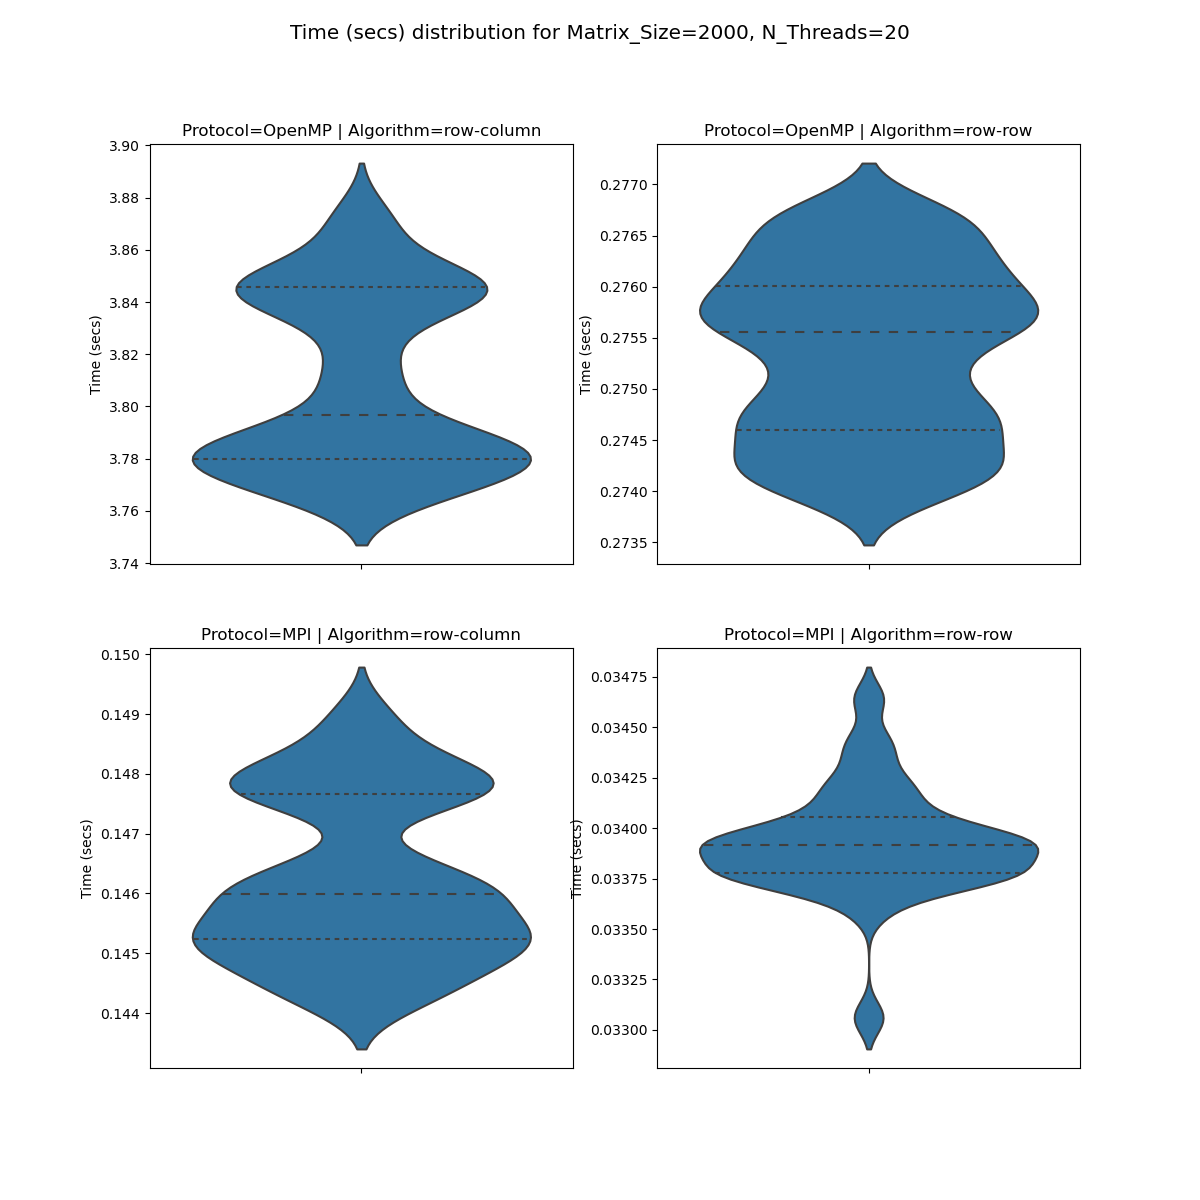
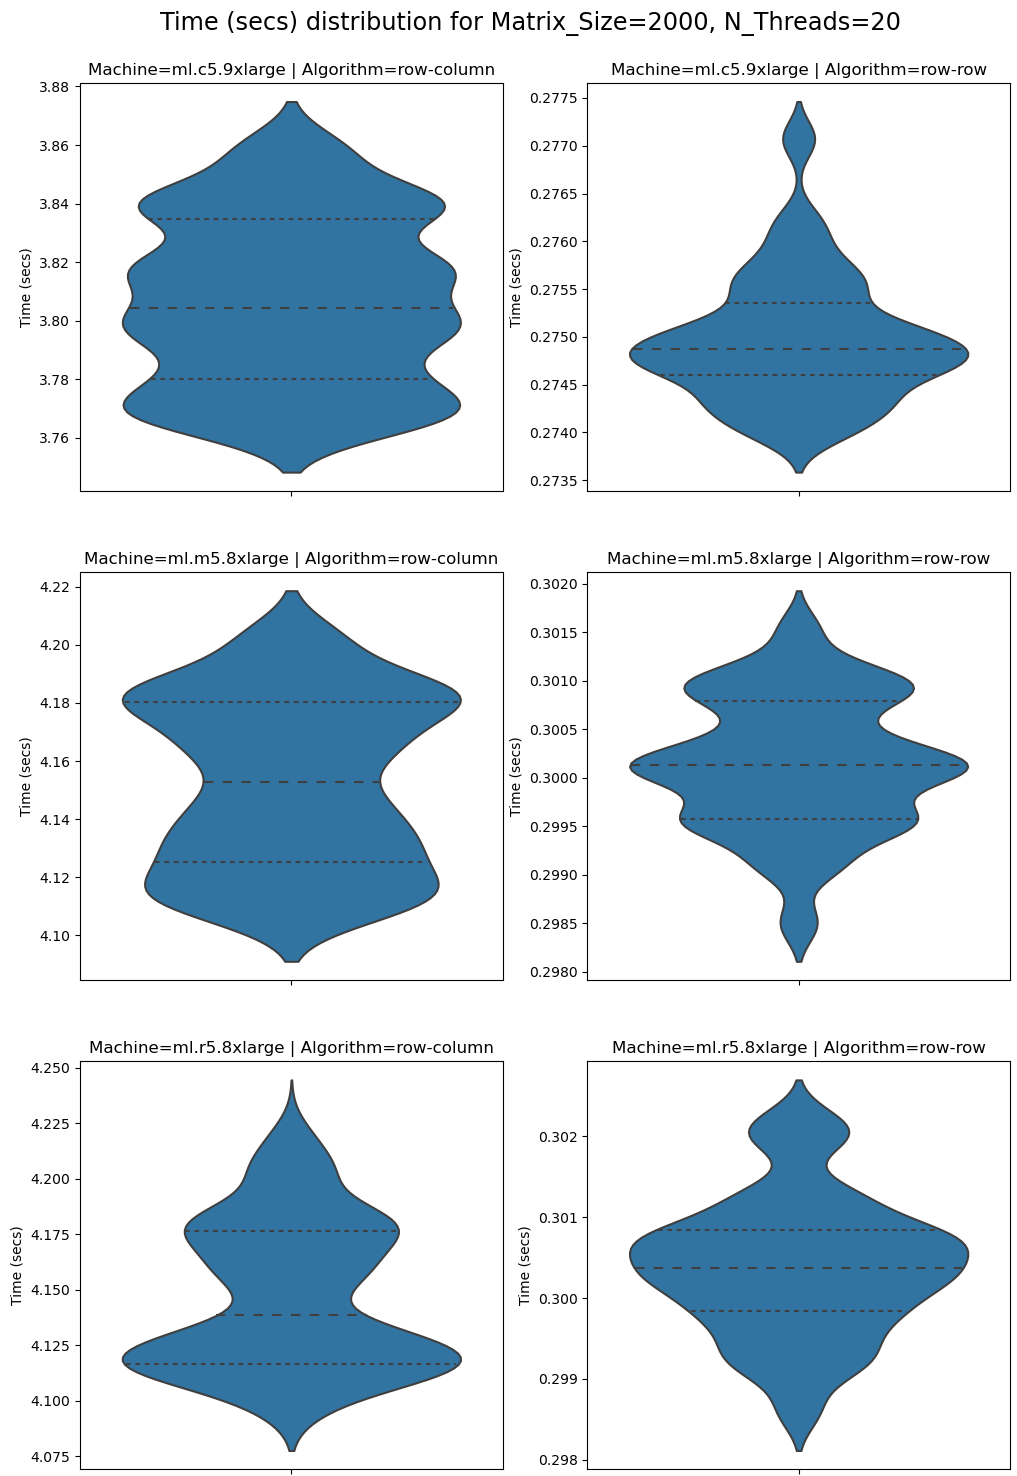
Update graphics to work with different machines

diff --git a/graphics.py b/graphics.py
@@ -1,3 +1,4 @@
+# Imports
 from argparse import ArgumentParser
 from os import path
 
@@ -6,27 +7,50 @@ import pandas as pd
 import seaborn as sns
 from matplotlib.colors import LogNorm
 
+# Parse execution arguments
 parser = ArgumentParser(description="Create graphics from the experiments data.")
 parser.add_argument(
-    "input_file",
-    help="CSV file to be read and processed. Should be output of launcher.py",
+    "input_files",
+    help="CSV files to be read and processed. Should be outputs of launcher.py, from different machines",
+    nargs="+",
 )
-parser.add_argument("out_folder", help="Folder where the images will be saved")
+parser.add_argument(
+    "-o", "--out", help="Folder where the images will be saved", required=True
+)
 args = parser.parse_args()
+input_files = args.input_files
+out_folder = args.out
 
-input_file = args.input_file
-data = pd.read_csv(input_file)
+# Read the data in every csv input and combine into single dataframe
+data = []
+for input_file in input_files:
+    partial_data = pd.read_csv(input_file)
+    partial_data["Machine"] = input_file.split(".")[0]
+    data.append(partial_data)
+data = pd.concat(data, ignore_index=True)
+
+# Transform time from microseconds to seconds
 data["Time (secs)"] = data["Time"] * 10**-6
+# Fix machine names to agree with aws documentation
+data["Machine"] = data.apply(lambda x: x["Machine"].replace("_", "."), axis=1)
+# Obtain list of unique machines and algorithms
+machines = data["Machine"].unique()
+algorithms = data["Algorithm"].unique()
+num_machines = len(machines)
+num_algorithms = len(algorithms)
 
-algorithms = ["row-column", "row-row"]
-protocols = ["OpenMP", "MPI"]
-fig, ax = plt.subplots(2, 2)
-fig.set_size_inches(10, 10)
+# Create matplotlib figure to plot time heatmap
+fig, ax = plt.subplots(num_machines, num_algorithms)
+fig_width = 12
+fig.set_size_inches(fig_width, 3 * fig_width // 2)
 ax_idx = 0
-for protocol in protocols:
+# Iterate over every machine and algorithm combination
+for machine in machines:
     for algorithm in algorithms:
-        position = divmod(ax_idx, 2)
-        heatmap = data.query(f"Algorithm == '{algorithm}' and Protocol == '{protocol}'")
+        # Obtain axis position in figure
+        position = divmod(ax_idx, num_algorithms)
+        # Create time heatmap, with matrix vs threads dimensions
+        heatmap = data.query(f"Algorithm == '{algorithm}' and Machine == '{machine}'")
         heatmap = heatmap.pivot_table(
             values="Time (secs)",
             index="Matrix_Size",
@@ -34,58 +58,77 @@ for protocol in protocols:
             aggfunc="mean",
         )
         sns.heatmap(heatmap, norm=LogNorm(), ax=ax[*position])
-        ax[*position].set_title(f"Protocol={protocol} | Algorithm={algorithm}")
-        ax_idx += 1
-fig.suptitle("Time (secs) for every threads-size combination", fontsize="x-large")
-plt.savefig(path.join(args.out_folder, "size-threads-time.png"))
-plt.clf()
-plt.cla()
-
-data_size2k_threads20 = data.query("Matrix_Size == 2000 and N_Threads == 20")
-algorithms = ["row-column", "row-row"]
-protocols = ["OpenMP", "MPI"]
-fig, ax = plt.subplots(2, 2)
-fig.set_size_inches(12, 12)
-ax_idx = 0
-for protocol in protocols:
-    for algorithm in algorithms:
-        position = divmod(ax_idx, 2)
-        dist = data_size2k_threads20.query(
-            f"Algorithm == '{algorithm}' and Protocol == '{protocol}'"
-        )
-        sns.violinplot(dist, y="Time (secs)", inner="quart", ax=ax[*position])
-        ax[*position].set_title(f"Protocol={protocol} | Algorithm={algorithm}")
+        ax[*position].set_title(f"Machine={machine} | Algorithm={algorithm}")
         ax_idx += 1
 fig.suptitle(
-    "Time (secs) distribution for Matrix_Size=2000, N_Threads=20", fontsize="x-large"
+    "Time (secs) for every threads-size combination", fontsize="xx-large", x=0.5, y=0.92
 )
-plt.savefig(path.join(args.out_folder, "distribution.png"))
+# Save figure
+plt.savefig(path.join(out_folder, "size-threads-time.png"))
+# Clear figure
 plt.clf()
 plt.cla()
 
+# Define data subset with max number of threads and matrix size
+data_size2k_threads20 = data.query("Matrix_Size == 2000 and N_Threads == 20")
+# Create matplotlib figure to plot time heatmap
+fig, ax = plt.subplots(num_machines, num_algorithms)
+fig_width = 12
+fig.set_size_inches(fig_width, 3 * fig_width // 2)
+ax_idx = 0
+# Iterate over every machine and algorithm combination
+for machine in machines:
+    for algorithm in algorithms:
+        # Obtain axis position in figure
+        position = divmod(ax_idx, num_algorithms)
+        # Create time distribution plot as violinplot
+        dist = data_size2k_threads20.query(
+            f"Algorithm == '{algorithm}' and Machine == '{machine}'"
+        )
+        sns.violinplot(dist, y="Time (secs)", inner="quart", ax=ax[*position])
+        ax[*position].set_title(f"Machine={machine} | Algorithm={algorithm}")
+        ax_idx += 1
+fig.suptitle(
+    "Time (secs) distribution for Matrix_Size=2000, N_Threads=20",
+    fontsize="xx-large",
+    x=0.5,
+    y=0.92,
+)
+# Save figure
+plt.savefig(path.join(out_folder, "distribution.png"))
+# Clear figure
+plt.clf()
+plt.cla()
+
+# Plot threads vs time lineplots
 ax = sns.relplot(
     data,
     x="N_Threads",
     y="Time (secs)",
     hue="Matrix_Size",
-    row="Protocol",
+    row="Machine",
     col="Algorithm",
     palette="plasma",
     kind="line",
 )
-plt.savefig(path.join(args.out_folder, "threads-time.png"))
+# Save figure
+plt.savefig(path.join(out_folder, "threads-time.png"))
+# Clear figure
 plt.clf()
 plt.cla()
 
+# Plot matrix_size vs time lineplots
 data["N_Threads"] = data["N_Threads"].astype(str)
 ax = sns.relplot(
     data,
     x="Matrix_Size",
     y="Time (secs)",
     hue="N_Threads",
-    row="Protocol",
+    row="Machine",
     col="Algorithm",
     palette="plasma",
     kind="line",
 )
-plt.savefig(path.join(args.out_folder, "size-time.png"))
+# Save figure
+plt.savefig(path.join(out_folder, "size-time.png"))
+# Program end
